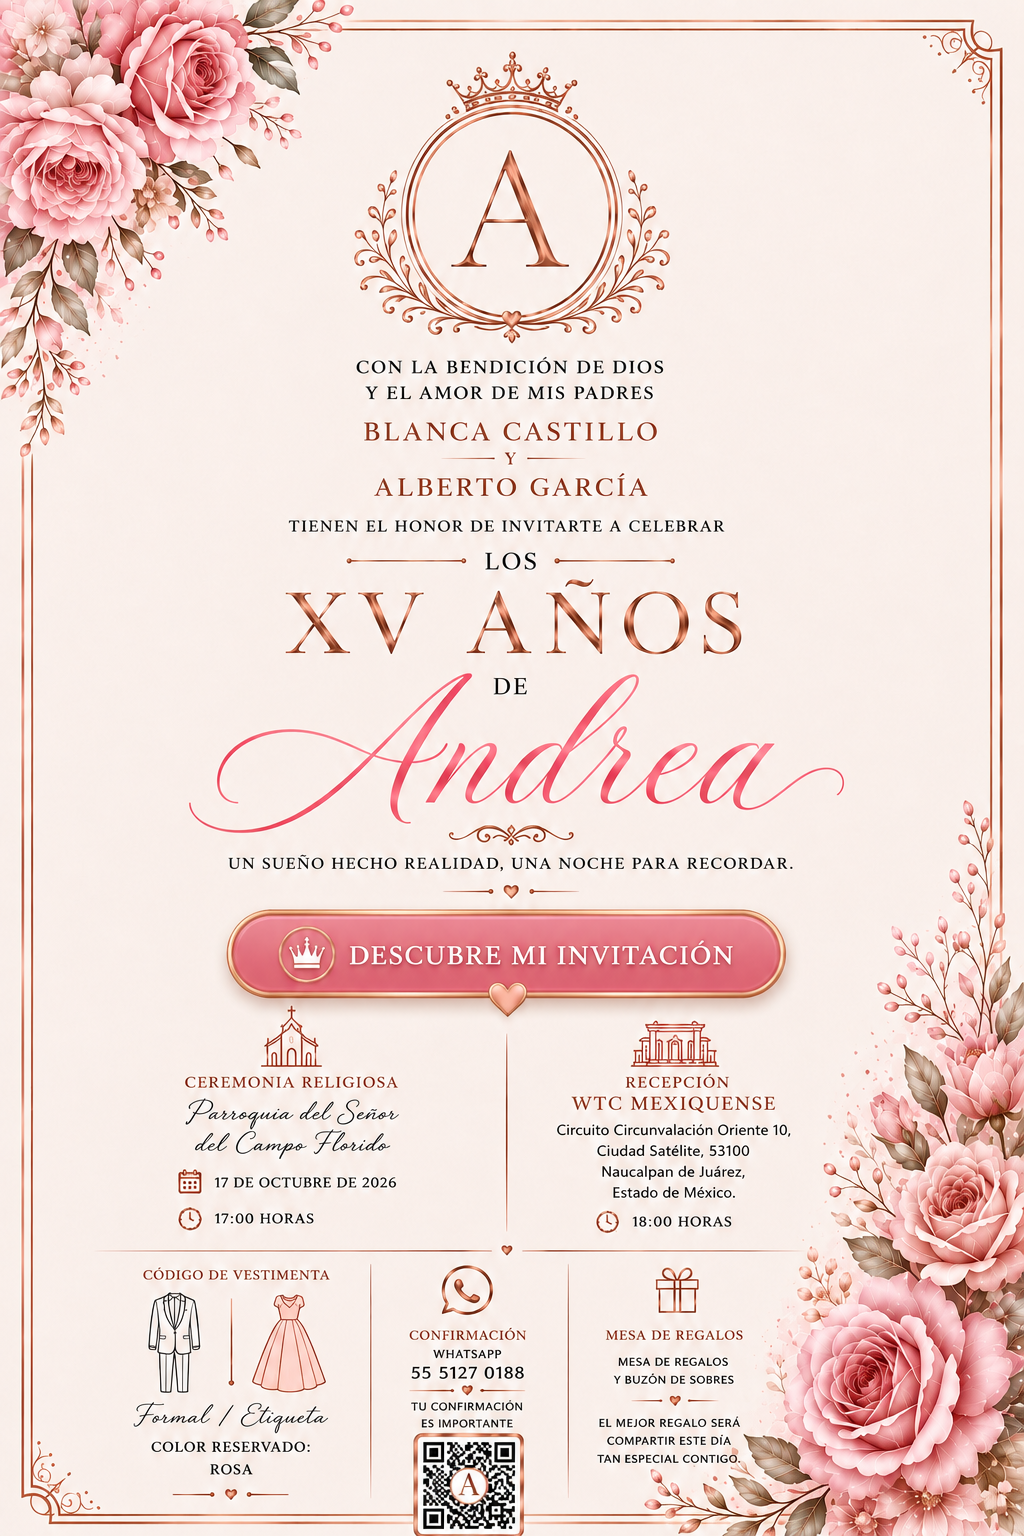
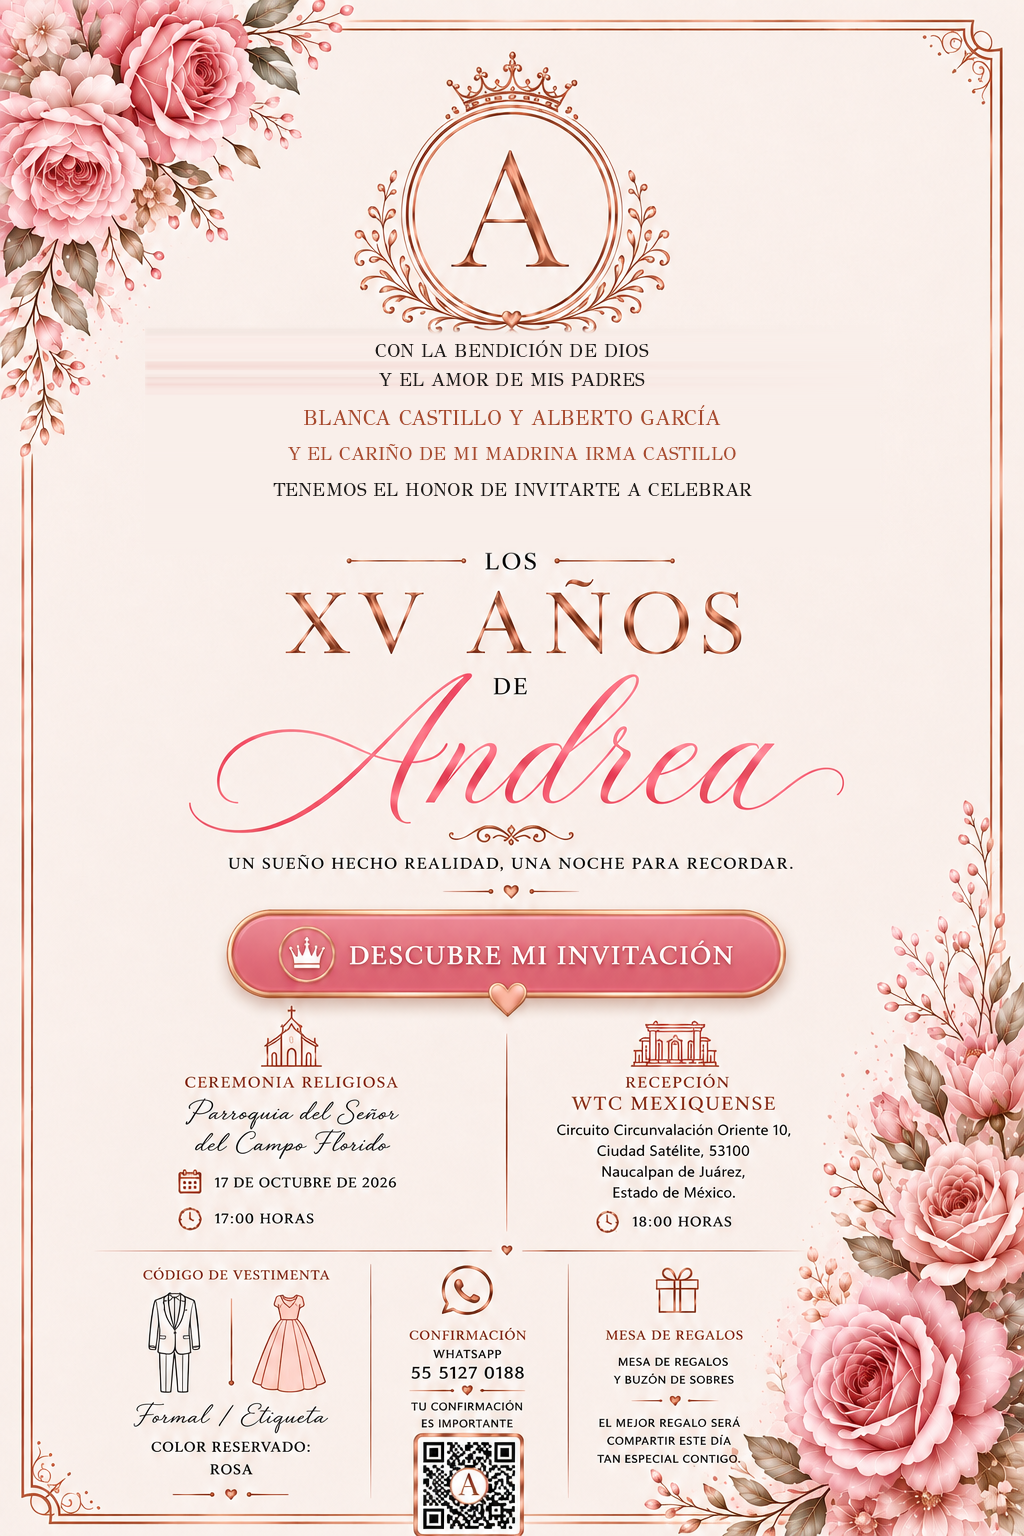
Add files via upload

Changed region(s): [[0.2812, 0.2188, 0.7188, 0.3438]]

diff --git a/index.html b/index.html
@@ -1,45 +1,113 @@
 <!doctype html>
 <html lang="es">
 <head>
-<meta charset="utf-8"><meta name="viewport" content="width=device-width,initial-scale=1">
+<meta charset="utf-8">
+<meta name="viewport" content="width=device-width,initial-scale=1">
 <title>Andrea XV | Invitación</title>
 <link rel="stylesheet" href="style.css">
 </head>
 <body>
 <header class="top"><strong>Andrea XV</strong><span aria-label="Menú">☰</span></header>
+
 <main>
 <section class="cover" aria-label="Invitación principal">
   <img id="coverImage" src="./invitacion-original.png" alt="Invitación de XV años de Andrea" tabindex="0" role="button" aria-label="Descubre mi invitación">
 </section>
+
 <section id="contenido" class="section intro">
   <p class="eyebrow">ANDREA · MIS XV AÑOS</p>
-<h1>Una noche para recordar</h1>
-<div class="invitation-text" aria-label="Familia e invitación">
-  <p>CON LA BENDICIÓN DE DIOS,<br>EL AMOR DE MIS PADRES<br><b>BLANCA CASTILLO Y ALBERTO GARCIA</b>,<br>Y EL CARIÑO DE MI MADRINA<br><b>IRMA CASTILLO</b>,<br>TENEMOS EL HONOR DE INVITARTE A CELEBRAR.</p>
-</div>
-  <div class="countdown" aria-label="Cuenta regresiva">
-    <div><b id="d">00</b><small>DÍAS</small></div><div><b id="h">00</b><small>HORAS</small></div>
-    <div><b id="m">00</b><small>MINUTOS</small></div><div><b id="s">00</b><small>SEGUNDOS</small></div>
+  <h1>Una noche para recordar</h1>
+
+  <div class="countdown" aria-label="Cuenta regresiva al evento">
+    <div><b id="d">00</b><small>DÍAS</small></div>
+    <div><b id="h">00</b><small>HORAS</small></div>
+    <div><b id="m">00</b><small>MINUTOS</small></div>
+    <div><b id="s">00</b><small>SEGUNDOS</small></div>
   </div>
-  <p>17 DE OCTUBRE DE 2026 · 17:00 HRS</p>
+
+  <p class="event-date">17 DE OCTUBRE DE 2026 · 17:00 HRS</p>
+
   <section class="music-card" aria-label="Música de la invitación">
     <div class="music-copy">
       <span class="music-note">♪</span>
       <div><strong>Música de la invitación</strong><small>Enchanted · Taylor Swift</small></div>
     </div>
     <button id="musicButton" class="music-btn" type="button" aria-pressed="false">▶ Activar música</button>
-    <iframe id="musicFrame" class="music-frame" title="Música de la invitación" allow="autoplay; encrypted-media" referrerpolicy="strict-origin-when-cross-origin"></iframe>
+    <iframe id="musicFrame" class="music-frame" title="Música de la invitación"
+      allow="autoplay; encrypted-media; picture-in-picture"
+      referrerpolicy="strict-origin-when-cross-origin"></iframe>
+    <small id="musicStatus" class="music-status" aria-live="polite"></small>
   </section>
 </section>
-<section id="ceremonia" class="section card"><img class="icon" src="iglesia.svg" alt=""><div><h2>Ceremonia religiosa</h2><p><b>Parroquia del Señor del Campo Florido</b><br>17 de octubre de 2026 · 17:00 horas</p><a class="btn" target="_blank" href="https://maps.google.com/?q=19.498005,-99.231422">Ver ubicación</a></div></section>
-<section id="recepcion" class="section card"><img class="icon" src="recepcion.svg" alt=""><div><h2>Recepción</h2><p><b>WTC Mexiquense</b><br>18:00 horas<br>Circuito Circunvalación Oriente 10, Naucalpan de Juárez, Estado de México.</p><a class="btn" target="_blank" href="https://waze.com/ul/h9g3qvvgg6">Cómo llegar (Waze)</a></div></section>
-<section id="confirmacion" class="section card"><img class="icon" src="whatsapp.svg" alt=""><div><h2>Confirmación</h2><p>Tu confirmación es muy importante para que todo sea perfecto.</p><a class="whatsapp" target="_blank" href="https://wa.me/525551270188?text=Andrea%20te%20confirmo%20mi%20asistencia.%0A%0ANombre%20completo%20de%20todos%20tus%20integrantes%20de%20familia%3A">55 5127 0188</a>
-<a class="whatsapp" target="_blank" href="https://wa.me/525531296988?text=Andrea%20te%20confirmo%20mi%20asistencia.%0A%0ANombre%20completo%20de%20todos%20tus%20integrantes%20de%20familia%3A">55 3129 6988</a></div></section>
-<section id="vestimenta" class="section card"><div class="dual-icons"><img src="traje.svg" alt="Traje"><img src="vestido.svg" alt="Vestido"></div><div><h2>Código de vestimenta</h2><p><b>Formal / Etiqueta</b><br>Color reservado: rosa</p></div></section>
-<section id="album" class="section card"><img class="icon" src="album.svg" alt=""><div><h2>Álbum digital</h2><p>Próximamente podrás ver aquí los mejores momentos de esta celebración.</p><div class="album-grid"><span>📷</span><span>👑</span><span>🌸</span></div></div></section>
-<section id="regalos" class="section card"><img class="icon" src="regalo.svg" alt=""><div><h2>Mesa de regalos</h2><p>Mesa de regalos y buzón de sobres.</p><p>El mejor regalo será compartir este día tan especial contigo.</p></div></section>
+
+<section id="ceremonia" class="section card">
+  <img class="place-photo" src="iglesia-foto.jpg" alt="Parroquia del Señor del Campo Florido">
+  <div>
+    <h2>Ceremonia religiosa</h2>
+    <p><b>Parroquia del Señor del Campo Florido</b><br>17 de octubre de 2026 · 17:00 horas</p>
+    <a class="btn" target="_blank" rel="noopener" href="https://maps.google.com/?q=19.498005,-99.231422">Ver ubicación</a>
+  </div>
+</section>
+
+<section id="recepcion" class="section card">
+  <img class="place-photo" src="wtc-foto.jpg" alt="WTC Ciudad Satélite Salones y Banquetes">
+  <div>
+    <h2>Recepción</h2>
+    <p><b>WTC Mexiquense</b><br>18:00 horas<br>Circuito Circunvalación Oriente 10, Naucalpan de Juárez, Estado de México.</p>
+    <a class="btn" target="_blank" rel="noopener" href="https://waze.com/ul/h9g3qvvgg6">Cómo llegar (Waze)</a>
+  </div>
+</section>
+
+<section id="confirmacion" class="section card">
+  <img class="icon" src="whatsapp.svg" alt="">
+  <div>
+    <h2>Confirmación</h2>
+    <p>Tu confirmación es muy importante para que todo sea perfecto.</p>
+    <a class="whatsapp" target="_blank" rel="noopener" href="https://wa.me/525551270188?text=Andrea%20te%20confirmo%20mi%20asistencia.%0A%0ANombre%20completo%20de%20todos%20tus%20integrantes%20de%20familia%3A">55 5127 0188</a>
+    <a class="whatsapp" target="_blank" rel="noopener" href="https://wa.me/525531296988?text=Andrea%20te%20confirmo%20mi%20asistencia.%0A%0ANombre%20completo%20de%20todos%20tus%20integrantes%20de%20familia%3A">55 3129 6988</a>
+  </div>
+</section>
+
+<section id="vestimenta" class="section card">
+  <div class="dual-icons">
+    <img src="traje-original.png" alt="Traje formal">
+    <img src="vestido-original.png" alt="Vestido formal">
+  </div>
+  <div>
+    <h2>Código de vestimenta</h2>
+    <p><b>Formal / Etiqueta</b><br>Color reservado: rosa</p>
+  </div>
+</section>
+
+<section id="album" class="section card">
+  <img class="icon" src="album.svg" alt="">
+  <div>
+    <h2>Álbum digital</h2>
+    <p>Próximamente podrás ver aquí los mejores momentos de esta celebración.</p>
+    <div class="album-grid"><span>📷</span><span>👑</span><span>🌸</span></div>
+  </div>
+</section>
+
+<section id="regalos" class="section card">
+  <img class="icon" src="regalo.svg" alt="">
+  <div>
+    <h2>Mesa de regalos</h2>
+    <p>Mesa de regalos y buzón de sobres.</p>
+    <p>El mejor regalo será compartir este día tan especial contigo.</p>
+  </div>
+</section>
 </main>
-<nav class="bottom"><a href="#contenido">⌂<small>INICIO</small></a><a href="#ceremonia">⛪<small>CEREMONIA</small></a><a href="#recepcion">🏛<small>RECEPCIÓN</small></a><a href="#confirmacion">✓<small>CONFIRMACIÓN</small></a><a href="#album">▧<small>ÁLBUM</small></a><a href="#regalos">🎁<small>REGALOS</small></a></nav>
+
+<nav class="bottom">
+  <a href="#contenido">⌂<small>INICIO</small></a>
+  <a href="#ceremonia">⛪<small>CEREMONIA</small></a>
+  <a href="#recepcion">🏛<small>RECEPCIÓN</small></a>
+  <a href="#confirmacion">✓<small>CONFIRMACIÓN</small></a>
+  <a href="#album">▧<small>ÁLBUM</small></a>
+  <a href="#regalos">🎁<small>REGALOS</small></a>
+</nav>
+
 <footer>Con amor, para un día inolvidable 💗</footer>
 <script src="script.js"></script>
-</body></html>
+</body>
+</html>

diff --git a/style.css b/style.css
@@ -1,7 +1,49 @@
-*{box-sizing:border-box}html{scroll-behavior:smooth}body{margin:0;background:#faeef0;color:#5b3e40;font-family:Georgia,'Times New Roman',serif}.top{position:sticky;top:0;z-index:20;display:flex;justify-content:space-between;align-items:center;padding:13px 20px;background:#d95f7d;color:#fff;font-size:20px;box-shadow:0 2px 8px #0002}main{max-width:760px;margin:auto}.cover{position:relative;background:#fff}.cover>img{display:block;width:100%;height:auto;cursor:pointer}.section{margin:12px;padding:22px;background:#fffaf8;border:1px solid #efd1d8;border-radius:14px;box-shadow:0 3px 12px #8c556015}.intro{text-align:center}.eyebrow{letter-spacing:2px;color:#b64d68;font-size:13px}.intro h1{color:#a84d62;font-weight:500;font-size:28px}.countdown{display:grid;grid-template-columns:repeat(4,1fr);gap:8px;margin:20px 0}.countdown div{background:#f9e2e7;border-radius:9px;padding:11px}.countdown b{display:block;color:#a92847;font-size:28px}.countdown small{font-size:9px}.card{display:flex;gap:18px;align-items:center}.card h2{margin:0 0 9px;color:#b34e68;font-size:20px;text-transform:uppercase}.card p{line-height:1.5}.icon{width:62px;height:62px;flex:0 0 62px}.btn,.whatsapp{display:block;width:min(100%,330px);margin:10px auto 0;padding:11px 16px;border-radius:24px;text-align:center;text-decoration:none;font-weight:bold}.btn{background:#dc6380;color:#fff}.whatsapp{background:#dc5d7c;color:#fff}.dual-icons{display:flex;gap:12px;flex:0 0 130px;justify-content:center}.dual-icons img{width:55px;height:75px}.album-grid{display:flex;gap:9px}.album-grid span{padding:22px;background:#f1dce1;border-radius:9px;font-size:28px}.bottom{position:sticky;bottom:0;z-index:20;display:flex;justify-content:space-around;background:#dc5d7c;color:#fff;padding:7px 3px}.bottom a{color:#fff;text-decoration:none;text-align:center;font-size:17px}.bottom small{display:block;font-size:8px}footer{text-align:center;padding:26px;color:#8b5961}@media(min-width:761px){body{padding-bottom:0}}@media(max-width:560px){.card{align-items:flex-start}.card h2{font-size:17px}.countdown b{font-size:23px}.dual-icons{flex-basis:100px}}
-
-.music-card{margin:18px 0 0;padding:13px 14px;background:#fff;border:1px solid #efd1d8;border-radius:14px;display:flex;align-items:center;justify-content:space-between;gap:12px;box-shadow:0 2px 9px #8c556012}.music-copy{display:flex;align-items:center;gap:10px;text-align:left}.music-copy strong{display:block;color:#a84d62;font-size:14px}.music-copy small{display:block;margin-top:3px;color:#7c5a60;font-size:11px}.music-note{width:34px;height:34px;display:grid;place-items:center;border-radius:50%;background:#f9e2e7;color:#b34e68;font-size:20px}.music-btn{border:0;border-radius:22px;padding:10px 14px;background:#dc6380;color:#fff;font:inherit;font-size:12px;font-weight:bold;cursor:pointer;white-space:nowrap}.music-frame{position:absolute;width:1px;height:1px;border:0;opacity:0;pointer-events:none}@media(max-width:560px){.music-card{align-items:stretch;flex-direction:column}.music-btn{width:100%}}
-
-.invitation-text{max-width:620px;margin:10px auto 4px;padding:4px 12px;color:#6a474b;font-size:16px;line-height:1.65;letter-spacing:.2px}
-.invitation-text p{margin:0;text-transform:uppercase}
-@media(max-width:560px){.invitation-text{font-size:15px;line-height:1.55}}
+*{box-sizing:border-box}
+html{scroll-behavior:smooth}
+body{margin:0;background:#faeef0;color:#5b3e40;font-family:Georgia,'Times New Roman',serif}
+.top{position:sticky;top:0;z-index:20;display:flex;justify-content:space-between;align-items:center;padding:13px 20px;background:#d95f7d;color:#fff;font-size:20px;box-shadow:0 2px 8px #0002}
+main{max-width:760px;margin:auto}
+.cover{position:relative;background:#fff}
+.cover>img{display:block;width:100%;height:auto;cursor:pointer}
+.section{margin:12px;padding:22px;background:#fffaf8;border:1px solid #efd1d8;border-radius:14px;box-shadow:0 3px 12px #8c556015}
+.intro{text-align:center}
+.eyebrow{letter-spacing:2px;color:#b64d68;font-size:13px}
+.intro h1{color:#a84d62;font-weight:500;font-size:28px}
+.event-date{margin:0 0 4px;font-weight:600;color:#8c4d5a}
+.countdown{display:grid;grid-template-columns:repeat(4,1fr);gap:8px;margin:20px 0}
+.countdown div{background:#f9e2e7;border-radius:9px;padding:11px}
+.countdown b{display:block;color:#a92847;font-size:28px}
+.countdown small{font-size:9px}
+.card{display:flex;gap:18px;align-items:center}
+.card h2{margin:0 0 9px;color:#b34e68;font-size:20px;text-transform:uppercase}
+.card p{line-height:1.5}
+.icon{width:62px;height:62px;flex:0 0 62px}
+.place-photo{width:78px;height:78px;flex:0 0 78px;object-fit:cover;border-radius:14px;border:1px solid #efd1d8}
+.btn,.whatsapp{display:block;width:min(100%,330px);margin:10px auto 0;padding:11px 16px;border-radius:24px;text-align:center;text-decoration:none;font-weight:bold}
+.btn{background:#dc6380;color:#fff}
+.whatsapp{background:#dc5d7c;color:#fff}
+.dual-icons{display:flex;gap:10px;flex:0 0 130px;justify-content:center;align-items:center}
+.dual-icons img{width:58px;height:78px;object-fit:cover;border-radius:6px}
+.album-grid{display:flex;gap:9px}
+.album-grid span{padding:22px;background:#f1dce1;border-radius:9px;font-size:28px}
+.bottom{position:sticky;bottom:0;z-index:20;display:flex;justify-content:space-around;background:#dc5d7c;color:#fff;padding:7px 3px}
+.bottom a{color:#fff;text-decoration:none;text-align:center;font-size:17px}
+.bottom small{display:block;font-size:8px}
+footer{text-align:center;padding:26px;color:#8b5961}
+.music-card{margin:18px 0 0;padding:13px 14px;background:#fff;border:1px solid #efd1d8;border-radius:14px;display:flex;align-items:center;justify-content:space-between;gap:12px;box-shadow:0 2px 9px #8c556012}
+.music-copy{display:flex;align-items:center;gap:10px;text-align:left}
+.music-copy strong{display:block;color:#a84d62;font-size:14px}
+.music-copy small{display:block;margin-top:3px;color:#7c5a60;font-size:11px}
+.music-note{width:34px;height:34px;display:grid;place-items:center;border-radius:50%;background:#f9e2e7;color:#b34e68;font-size:20px}
+.music-btn{border:0;border-radius:22px;padding:10px 14px;background:#dc6380;color:#fff;font:inherit;font-size:12px;font-weight:bold;cursor:pointer;white-space:nowrap}
+.music-status{display:block;width:100%;font-size:10px;color:#8b5961;text-align:center;margin-top:4px}
+.music-frame{display:none;width:1px;height:1px;border:0;opacity:0;pointer-events:none}
+@media(max-width:560px){
+  .card{align-items:flex-start}
+  .card h2{font-size:17px}
+  .countdown b{font-size:23px}
+  .dual-icons{flex-basis:100px}
+  .place-photo{width:68px;height:68px;flex-basis:68px}
+  .music-card{align-items:stretch;flex-direction:column}
+  .music-btn{width:100%}
+}

diff --git a/script.js b/script.js
@@ -1,67 +1,95 @@
-const target=new Date('2026-10-17T17:00:00-06:00').getTime();
-function tick(){const n=Math.max(0,Math.floor((target-Date.now())/1000));const v=[Math.floor(n/86400),Math.floor(n%86400/3600),Math.floor(n%3600/60),n%60];['d','h','m','s'].forEach((id,i)=>document.getElementById(id).textContent=String(v[i]).padStart(2,'0'))}tick();setInterval(tick,1000);
+const target = new Date('2026-10-17T17:00:00-06:00').getTime();
 
-
-// La portada conserva el botón original integrado en la imagen.
-// Solo la zona visual del botón responde al toque/clic; no se coloca
-// ningún botón HTML encima de la invitación.
-const cover = document.getElementById('coverImage');
-const buttonArea = { left: 220, top: 908, right: 790, bottom: 1008 };
-
-function openInvitationFromCover(event) {
-  const rect = cover.getBoundingClientRect();
-  const scaleX = cover.naturalWidth / rect.width;
-  const scaleY = cover.naturalHeight / rect.height;
-  const x = (event.clientX - rect.left) * scaleX;
-  const y = (event.clientY - rect.top) * scaleY;
-
-  if (x >= buttonArea.left && x <= buttonArea.right &&
-      y >= buttonArea.top && y <= buttonArea.bottom) {
-    startMusic();
-    document.getElementById('contenido').scrollIntoView({ behavior: 'smooth', block: 'start' });
-  }
+function tick() {
+  const n = Math.max(0, Math.floor((target - Date.now()) / 1000));
+  const v = [
+    Math.floor(n / 86400),
+    Math.floor((n % 86400) / 3600),
+    Math.floor((n % 3600) / 60),
+    n % 60
+  ];
+  ['d','h','m','s'].forEach((id, i) => {
+    const el = document.getElementById(id);
+    if (el) el.textContent = String(v[i]).padStart(2, '0');
+  });
 }
+tick();
+setInterval(tick, 1000);
 
-cover.addEventListener('click', openInvitationFromCover);
-
-cover.addEventListener('keydown', (event) => {
-  if (event.key === 'Enter' || event.key === ' ') {
-    event.preventDefault();
-    startMusic();
-    document.getElementById('contenido').scrollIntoView({ behavior: 'smooth', block: 'start' });
-  }
-});
-
-
-// Música: en celulares los navegadores bloquean el autoplay con sonido
-// hasta que exista una interacción del usuario. Por eso la iniciamos
-// automáticamente en el primer toque de "Descubre mi invitación".
+const cover = document.getElementById('coverImage');
 const musicButton = document.getElementById('musicButton');
 const musicFrame = document.getElementById('musicFrame');
-const youtubeEmbed = 'https://www.youtube.com/embed/igIfiqqVHtA?autoplay=1&loop=1&playlist=igIfiqqVHtA&rel=0&playsinline=1';
+const musicStatus = document.getElementById('musicStatus');
+
+const youtubeEmbed =
+  'https://www.youtube-nocookie.com/embed/igIfiqqVHtA' +
+  '?autoplay=1&loop=1&playlist=igIfiqqVHtA&playsinline=1&rel=0&controls=1';
+
+let musicStarted = false;
 
 function startMusic() {
-  if (musicFrame && !musicFrame.src) {
+  // IMPORTANT: this function is called directly from the user's tap on the cover.
+  if (!musicFrame) return;
+
+  if (!musicStarted) {
+    musicStarted = true;
     musicFrame.src = youtubeEmbed;
     musicFrame.setAttribute('allow', 'autoplay; encrypted-media; picture-in-picture');
+    musicFrame.style.display = 'block';
+
     if (musicButton) {
-      musicButton.textContent = '❚❚ Pausar';
+      musicButton.textContent = '❚❚ Pausar música';
       musicButton.setAttribute('aria-pressed', 'true');
     }
+
+    if (musicStatus) {
+      musicStatus.textContent = 'La música se está iniciando…';
+    }
+
+    // If the browser blocks autoplay, the visible control remains available.
+    window.setTimeout(() => {
+      if (musicStatus) {
+        musicStatus.textContent = 'Si tu celular bloquea el sonido automático, toca “Pausar música” y después “Activar música”.';
+      }
+    }, 2500);
   }
 }
 
 function stopMusic() {
-  if (musicFrame) musicFrame.src = '';
+  if (!musicFrame) return;
+  musicFrame.src = '';
+  musicStarted = false;
+  musicFrame.style.display = 'none';
+
   if (musicButton) {
-    musicButton.textContent = '▶ Reproducir';
+    musicButton.textContent = '▶ Activar música';
     musicButton.setAttribute('aria-pressed', 'false');
   }
+  if (musicStatus) musicStatus.textContent = '';
 }
 
-if (musicButton && musicFrame) {
+// The original "DESCUBRE MI INVITACIÓN" is part of the image.
+// To avoid coordinate/scaling problems on phones, any tap on the cover
+// opens the invitation and attempts to start the music in the same gesture.
+function enterInvitation() {
+  startMusic();
+  const content = document.getElementById('contenido');
+  if (content) content.scrollIntoView({ behavior: 'smooth', block: 'start' });
+}
+
+if (cover) {
+  cover.addEventListener('click', enterInvitation);
+  cover.addEventListener('keydown', (event) => {
+    if (event.key === 'Enter' || event.key === ' ') {
+      event.preventDefault();
+      enterInvitation();
+    }
+  });
+}
+
+if (musicButton) {
   musicButton.addEventListener('click', () => {
-    const playing = musicButton.getAttribute('aria-pressed') === 'true';
-    if (playing) stopMusic(); else startMusic();
+    if (musicStarted) stopMusic();
+    else startMusic();
   });
 }

diff --git a/README.md b/README.md
@@ -1,28 +1,31 @@
-# Andrea XV — Sprint 4 Final 2 Corregido
+# Andrea XV — Sprint 4 Final 2 · Ajuste final
 
-Esta versión integra la interfaz aprobada y usa la invitación proporcionada como portada.
+## Cambios de esta entrega
+- La portada sigue siendo la invitación original.
+- Se integró en la PRIMERA PÁGINA el texto de padres y madrina:
+  - CON LA BENDICIÓN DE DIOS
+  - Y EL AMOR DE MIS PADRES
+  - BLANCA CASTILLO Y ALBERTO GARCÍA
+  - Y EL CARIÑO DE MI MADRINA IRMA CASTILLO
+  - TENEMOS EL HONOR DE INVITARTE A CELEBRAR
+- Se eliminó el bloque de padres/madrina de la zona de la cuenta regresiva.
+- La cuenta regresiva está configurada al 17 de octubre de 2026 a las 17:00 hrs.
+- La portada inicia la navegación y hace el intento de reproducir la música en el mismo toque del usuario.
+- La música usa el reproductor de YouTube; los navegadores móviles pueden bloquear autoplay con sonido.
+- Se sustituyeron los gráficos de ceremonia y recepción por las imágenes proporcionadas por el usuario.
+- El código de vestimenta usa los gráficos de traje y vestido recortados de la invitación original.
+- Los gráficos están como archivos individuales en la raíz del repositorio; no se requiere carpeta `icons`.
+- Se mantienen los dos WhatsApp y sus mensajes prellenados.
 
-## Incluye
-- Invitación original como portada.
-- Botón **Descubre mi invitación** integrado en la imagen original; la zona visual del botón es clickeable sin superponer un botón HTML.
-- Cuenta regresiva al 17 de octubre de 2026, 18:00.
-- Ceremonia religiosa a las 17:00 con ícono de iglesia y Google Maps.
-- Recepción WTC Mexiquense a las 18:00 con ícono de salón y Waze.
-- Confirmación con ícono de WhatsApp y ambos teléfonos: 55 5127 0188 y 55 3129 6988.
-- Código de vestimenta con gráficos de traje y vestido.
-- Álbum digital con gráfico de fotografías.
-- Mesa de regalos con gráfico de regalo.
-- Navegación inferior y diseño responsive.
-
-## Publicación
-Sube `index.html`, `style.css`, `script.js`, la carpeta `icons` y `invitacion-original.png` al repositorio de GitHub Pages.
-
-
-## Corrección de esta entrega
-- Se eliminó el botón HTML transparente/superpuesto.
-- La portada usa una ruta relativa `./invitacion-original.png`, compatible con GitHub Pages.
-- El toque/clic se detecta únicamente sobre la zona del botón que ya forma parte de la imagen original.
-- La navegación funciona en celular y escritorio y conserva los gráficos individuales de cada sección.
-
-
-Música integrada: YouTube video ID `igIfiqqVHtA` (Enchanted · Taylor Swift). Se inicia al pulsar “Reproducir” para que funcione en celulares sin depender del autoplay automático.
+## Archivos principales
+index.html
+style.css
+script.js
+invitacion-original.png
+iglesia-foto.jpg
+wtc-foto.jpg
+traje-original.png
+vestido-original.png
+whatsapp.svg
+album.svg
+regalo.svg
